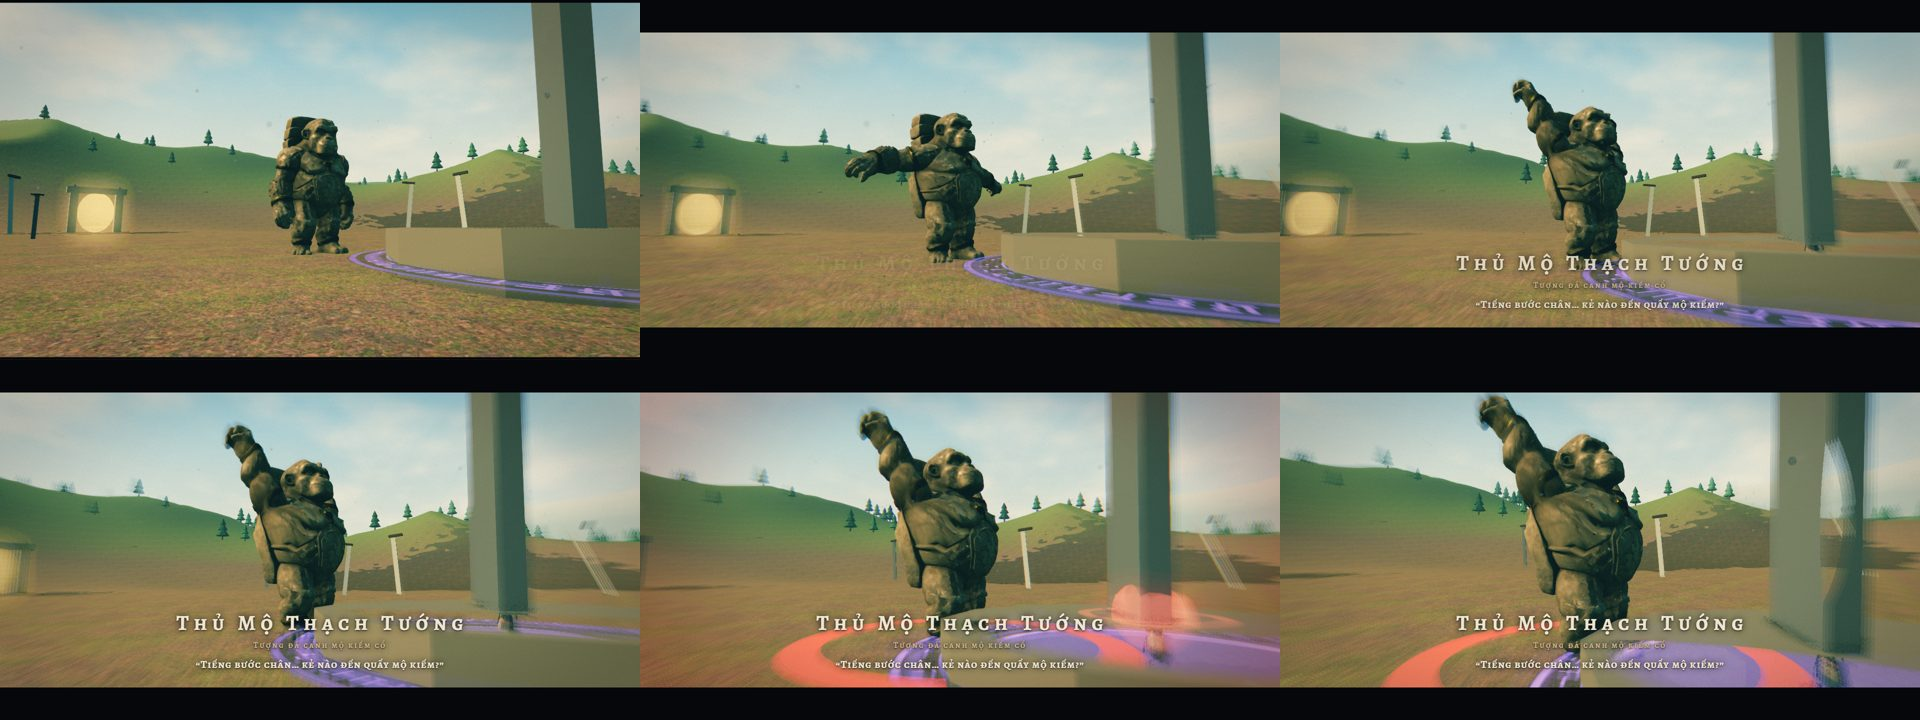
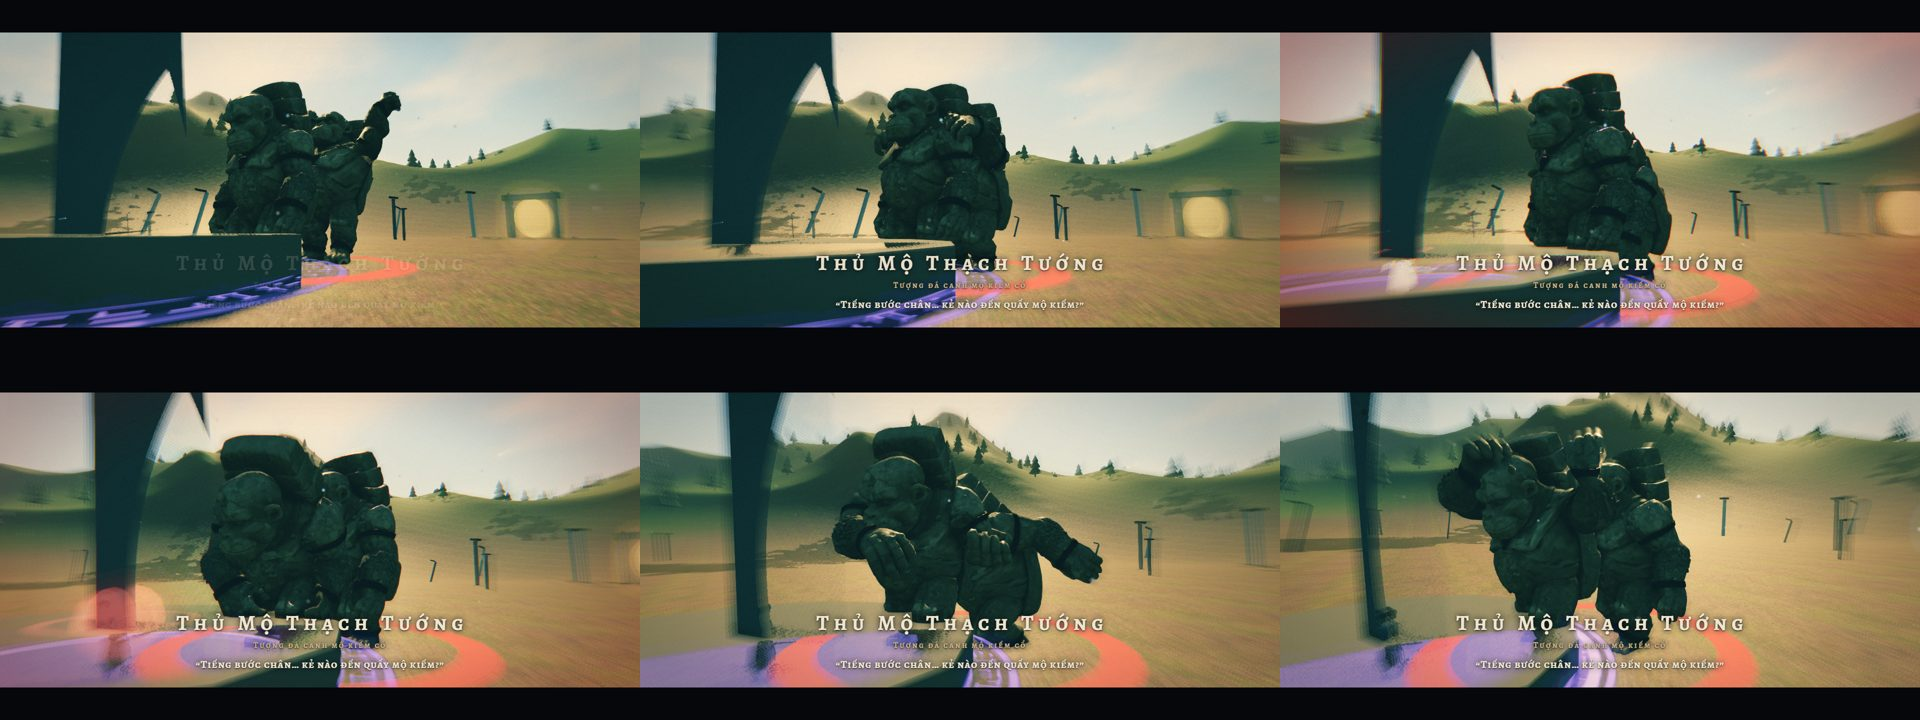
fix(client): camera cảnh boss tránh cự kiếm che tầm nhìn và giữ khoảng cách tối thiểu tới boss

diff --git a/apps/client/src/game/cutscene.ts b/apps/client/src/game/cutscene.ts
@@ -7,6 +7,8 @@
  * chính là camera thường của người chơi (truyền vào mỗi khung) nên bàn giao không có mối nối.
  */
 
+import { OCCLUDERS, type CircleCollider } from '@dtl/shared';
+
 export interface Vec3 {
   x: number;
   y: number;
@@ -177,32 +179,75 @@ export const PHASE_CUTSCENE = { dur: 1.9, out: 0.3 };
 /** Ngoài khoảng này người chơi không tham chiến nên không bị kéo camera. */
 export const BOSS_CUTSCENE_RANGE = 42;
 
+/** Lề thêm quanh hình tròn vật cản khi kiểm tầm nhìn camera→boss. */
+const OCC_PAD = 0.9;
+/** Thử lần lượt các độ lệch góc này (rad) quanh góc mặc định cho tới khi tầm nhìn thông. */
+const TURN_TRIES = [0, 0.35, -0.35, 0.7, -0.7, 1.05, -1.05];
+
+/** Đoạn (ax,az)→(bx,bz) có xuyên hình tròn vật cản nào không. Vật cản mà đích đã nằm trong thân (không xảy ra với va chạm thật) thì bỏ qua. */
+export function sightBlocked(ax: number, az: number, bx: number, bz: number, occ: readonly CircleCollider[]): boolean {
+  const dx = bx - ax;
+  const dz = bz - az;
+  const len2 = dx * dx + dz * dz || 1;
+  for (const o of occ) {
+    const r = o.r + OCC_PAD;
+    if (Math.hypot(o.x - bx, o.z - bz) < o.r + 0.2) continue;
+    const t = Math.max(0, Math.min(1, ((o.x - ax) * dx + (o.z - az) * dz) / len2));
+    if (Math.hypot(ax + dx * t - o.x, az + dz * t - o.z) < r) return true;
+  }
+  return false;
+}
+
 /**
  * Đường camera đóng khung boss, đặt ở phía MẶT boss (hướng `yaw` boss đang nhìn, lệch ~40° về phía người chơi để có
  * khối). Boss đang lao tới theo hướng nhìn nên camera lệch hẳn khỏi trục đó (không bị boss chạy xuyên qua): đầu cảnh
- * thấp và rộng, nhìn lên thân boss; rồi áp sát nhẹ và hòa vào camera thường. `scale` là cỡ boss (monsters.json),
- * `groundAt` để không chui xuống đất.
+ * thấp và rộng, nhìn lên thân boss; rồi áp sát nhẹ và hòa vào camera thường. Nếu cự kiếm/cột chắn tầm nhìn thì thử
+ * góc khác (`occ`). `scale` là cỡ boss (monsters.json), `groundAt` để không chui xuống đất.
  */
-export function bossIntroPath(boss: Vec3, yaw: number, scale: number, player: Vec3, groundAt: (x: number, z: number) => number): Waypoint[] {
+export function bossIntroPath(
+  boss: Vec3,
+  yaw: number,
+  scale: number,
+  player: Vec3,
+  groundAt: (x: number, z: number) => number,
+  occ: readonly CircleCollider[] = OCCLUDERS,
+): Waypoint[] {
   // Người chơi nằm bên nào của trục nhìn (dấu của tích có hướng) thì camera đứng bên đó.
   const fx = Math.sin(yaw);
   const fz = Math.cos(yaw);
   const side = fz * (player.x - boss.x) - fx * (player.z - boss.z) >= 0 ? 1 : -1;
-  const at = (turn: number, r: number, rise: number, look: number): Waypoint => {
-    const a = yaw + side * turn;
-    const x = boss.x + Math.sin(a) * r;
-    const z = boss.z + Math.cos(a) * r;
-    return { p: v(x, Math.max(groundAt(x, z) + 0.9, boss.y + rise), z), look: v(boss.x, boss.y + look, boss.z) };
+  const build = (d: number): Waypoint[] => {
+    const at = (turn: number, r: number, rise: number, look: number): Waypoint => {
+      const a = yaw + side * turn + d;
+      const x = boss.x + Math.sin(a) * r;
+      const z = boss.z + Math.cos(a) * r;
+      return { p: v(x, Math.max(groundAt(x, z) + 0.9, boss.y + rise), z), look: v(boss.x, boss.y + look, boss.z) };
+    };
+    return [at(0.7, 6 + 3.4 * scale, 0.35 * scale, 1.0 * scale), at(0.65, 5 + 2.6 * scale, 0.9 * scale + 0.4, 1.3 * scale)];
   };
-  return [at(0.7, 6 + 3.4 * scale, 0.35 * scale, 1.0 * scale), at(0.65, 5 + 2.6 * scale, 0.9 * scale + 0.4, 1.3 * scale)];
+  let first: Waypoint[] | null = null;
+  for (const d of TURN_TRIES) {
+    const path = build(d);
+    first ??= path;
+    if (!path.some((w) => sightBlocked(w.p.x, w.p.z, boss.x, boss.z, occ))) return path;
+  }
+  return first!;
 }
 
 /**
  * Chuyển pha: từ camera hiện tại vòng quanh boss sang phía MẶT boss (hướng `yaw` boss đang nhìn, lệch ~25° về phía
  * camera cho có khối), nâng nhẹ, mắt dõi ngực boss, rồi trả về camera thường. Điểm giữa nằm trên cung ngắn nhất
- * quanh boss nên camera không xuyên qua thân khi đang ở sau lưng.
+ * quanh boss nên camera không xuyên qua thân khi đang ở sau lưng. Vật cản chắn tầm nhìn thì thử góc khác.
  */
-export function phaseShiftPath(cam: Vec3, camLook: Vec3, boss: Vec3, yaw: number, scale: number, groundAt: (x: number, z: number) => number): Waypoint[] {
+export function phaseShiftPath(
+  cam: Vec3,
+  camLook: Vec3,
+  boss: Vec3,
+  yaw: number,
+  scale: number,
+  groundAt: (x: number, z: number) => number,
+  occ: readonly CircleCollider[] = OCCLUDERS,
+): Waypoint[] {
   const TAU = Math.PI * 2;
   const wrap = (a: number): number => ((((a + Math.PI) % TAU) + TAU) % TAU) - Math.PI;
   const dx = cam.x - boss.x;
@@ -210,16 +255,30 @@ export function phaseShiftPath(cam: Vec3, camLook: Vec3, boss: Vec3, yaw: number
   const camAng = Math.atan2(dx, dz);
   const camR = Math.hypot(dx, dz) || 1;
   const side = wrap(camAng - yaw) >= 0 ? 1 : -1;
-  const frontAng = yaw + side * 0.44;
   const frontR = 6 + 3 * scale;
-  const midAng = frontAng + wrap(camAng - frontAng) * 0.5;
-  const midR = Math.max(5 + 2 * scale, (camR + frontR) * 0.5);
   const look = v(boss.x, boss.y + 1.2 * scale, boss.z);
   const at = (ang: number, r: number, rise: number): Waypoint => {
     const x = boss.x + Math.sin(ang) * r;
     const z = boss.z + Math.cos(ang) * r;
     return { p: v(x, Math.max(groundAt(x, z) + 1.2, boss.y + rise), z), look };
   };
-  // Điểm đầu đúng camera hiện tại: không có mối nối.
-  return [{ p: v(cam.x, cam.y, cam.z), look: camLook }, at(midAng, midR, 1.1 * scale + 0.8), at(frontAng, frontR, 1.0 * scale + 1.2)];
+  const build = (d: number): Waypoint[] => {
+    const frontAng = yaw + side * 0.44 + d;
+    const midAng = frontAng + wrap(camAng - frontAng) * 0.5;
+    const midR = Math.max(5 + 2 * scale, (camR + frontR) * 0.5);
+    // Điểm đầu đúng camera hiện tại: không có mối nối.
+    return [{ p: v(cam.x, cam.y, cam.z), look: camLook }, at(midAng, midR, 1.1 * scale + 0.8), at(frontAng, frontR, 1.0 * scale + 1.2)];
+  };
+  let first: Waypoint[] | null = null;
+  for (const d of TURN_TRIES) {
+    const path = build(d);
+    first ??= path;
+    if (!path.slice(1).some((w) => sightBlocked(w.p.x, w.p.z, boss.x, boss.z, occ))) return path;
+  }
+  return first!;
+}
+
+/** Khoảng cách ngang tối thiểu camera cảnh giữ với boss để thấy trọn thân trên. */
+export function minBossDist(scale: number): number {
+  return 4.5 + 2.2 * scale;
 }

diff --git a/apps/client/src/game/engine.ts b/apps/client/src/game/engine.ts
@@ -54,7 +54,7 @@ import { hasString, ITEM, itemName, LEVELS, MONSTER, monsterName, NPCS, QUEST, r
 import { type BossInfo, type DebugInfo, get, pushLog, pushToast, set, type TargetCast, type TargetInfo, togglePanel, useUI } from '../ui/store';
 import { chapterSting, lootChime, playSting, type Sfx, setListener, sfx, unlockAudio } from './audio';
 import { CamFrame, CHAPTER, type ChapterKind, firstTime } from './chapter';
-import { BOSS_CUTSCENE, BOSS_CUTSCENE_RANGE, bossIntroPath, Cutscene, PHASE_CUTSCENE, phaseShiftPath, SECT_CUTSCENE, type Vec3, type Waypoint } from './cutscene';
+import { BOSS_CUTSCENE, BOSS_CUTSCENE_RANGE, bossIntroPath, Cutscene, minBossDist, PHASE_CUTSCENE, phaseShiftPath, SECT_CUTSCENE, type Vec3, type Waypoint } from './cutscene';
 import { LootFly } from './lootFly';
 import { LOOT_ARC, LOOT_BOUNCE, LOOT_TIERS, lootTier } from '../render/vfx/loot';
 import { BOLT_VIEW_DIST, boltAge } from '../render/vfx/projectile';
@@ -325,7 +325,7 @@ export class Game {
   private cineKind: 'sect' | 'boss' | 'phase' = 'sect';
   private cineShakeAt = 0;
   /** Boss mà cảnh xuất hiện đang nhìn theo (vị trí hiện tại, vì boss đang chạy), và độ cao ngực so với chân. */
-  private cineFocus: { id: string; rise: number } | null = null;
+  private cineFocus: { id: string; rise: number; scale: number } | null = null;
   /** Boss đã được xét cảnh xuất hiện trong lần giao chiến này (xóa khi boss hồi/gục). */
   private bossIntroSeen = new Set<string>();
   private pendingChapter: ChapterKind | null = null;
@@ -2041,7 +2041,7 @@ export class Game {
       const model = this.ents.monsters.get(id)?.model;
       const path = bossIntroPath({ x: m.x, y: m.y, z: m.z }, m.yaw, def.scale, { x: rp.x, y: rp.y, z: rp.z }, groundAt);
       this.beginBossCine('boss', path, BOSS_CUTSCENE, { name: monsterName(m.t), title: t(`mon.${m.t}.title`), text: t(key) });
-      this.cineFocus = { id, rise: 1.15 * def.scale };
+      this.cineFocus = { id, rise: 1.15 * def.scale, scale: def.scale };
       // Gầm: boss làm động tác lớn (nếu có), đất rung nhẹ, chớp mờ ở ngực.
       model?.bossMove?.('slam', 0.55);
       this.shake.kick(0.45);
@@ -2068,6 +2068,7 @@ export class Game {
     );
     postParams.pulseColor.value.set(def.accent ?? '#9fe6ff');
     this.beginBossCine('phase', path, PHASE_CUTSCENE, { name: monsterName(m.t), text: t(key) });
+    this.cineFocus = { id: src, rise: 1.2 * def.scale, scale: def.scale };
     this.shake.kick(0.9);
     return true;
   }
@@ -2096,17 +2097,35 @@ export class Game {
     if (this.cineKind === 'sect') this.chapter('sect');
   }
 
-  /** Nửa đầu cảnh xuất hiện mắt luôn dõi boss; sau đó trả dần về điểm nhìn của đường (khớp camera thường ở cuối). */
+  /**
+   * Theo boss trong cảnh: (1) cảnh xuất hiện: nửa đầu mắt luôn dõi boss đang chạy, sau đó trả dần về điểm nhìn của
+   * đường; (2) cả hai cảnh: camera không được sát boss hơn `minBossDist` (thấy trọn thân trên), nới ra dần ở 15%
+   * cuối để hòa liền vào camera thường.
+   */
   private focusCine(): void {
     const f = this.cineFocus!;
     const m = this.view.monsters.get(f.id);
     if (!m || m.st === MS_DEAD) return;
-    const x = this.cine.time / BOSS_CUTSCENE.dur;
-    const k = Math.max(0, Math.min(1, (x - 0.5) / 0.4));
-    const hold = (1 - k * k * (3 - 2 * k)) * this.cine.weight;
-    _cineL.x += (m.x - _cineL.x) * hold;
-    _cineL.y += (m.y + f.rise - _cineL.y) * hold;
-    _cineL.z += (m.z - _cineL.z) * hold;
+    const smooth = (k: number): number => {
+      const c = Math.max(0, Math.min(1, k));
+      return c * c * (3 - 2 * c);
+    };
+    const x = this.cine.time / (this.cineKind === 'boss' ? BOSS_CUTSCENE.dur : PHASE_CUTSCENE.dur);
+    if (this.cineKind === 'boss') {
+      const hold = (1 - smooth((x - 0.5) / 0.4)) * this.cine.weight;
+      _cineL.x += (m.x - _cineL.x) * hold;
+      _cineL.y += (m.y + f.rise - _cineL.y) * hold;
+      _cineL.z += (m.z - _cineL.z) * hold;
+    }
+    const min = minBossDist(f.scale) * (1 - smooth((x - 0.85) / 0.15)) * this.cine.weight;
+    const dx = _cineP.x - m.x;
+    const dz = _cineP.z - m.z;
+    const d = Math.hypot(dx, dz);
+    if (d < min) {
+      const k = d > 1e-3 ? min / d : 0;
+      _cineP.x = m.x + (d > 1e-3 ? dx * k : min);
+      _cineP.z = m.z + (d > 1e-3 ? dz * k : 0);
+    }
   }
 
   /** Hiệu ứng hậu kỳ theo nhịp cảnh boss: nhòe hướng tâm (xuất hiện) hoặc nhuộm màu (chuyển pha), kèm rung lần hai. */

diff --git a/apps/client/src/game/cutscene.test.ts b/apps/client/src/game/cutscene.test.ts
@@ -1,6 +1,6 @@
 import { groundAt } from '@dtl/shared';
 import { describe, expect, it } from 'vitest';
-import { bossIntroPath, Cutscene, pathParam, phaseShiftPath, SECT_CUTSCENE, SECT_PATH, samplePath, type Vec3 } from './cutscene';
+import { bossIntroPath, minBossDist, sightBlocked, Cutscene, pathParam, phaseShiftPath, SECT_CUTSCENE, SECT_PATH, samplePath, type Vec3 } from './cutscene';
 
 const END_P: Vec3 = { x: 2048, y: 156.4, z: 2100 };
 const END_L: Vec3 = { x: 2048, y: 151.6, z: 2088 };
@@ -109,6 +109,28 @@ describe('đường cảnh boss (P2-B2/B3)', () => {
         expect(w.look.y).toBeGreaterThan(boss.y);
       }
     }
+  });
+
+  it('cự kiếm chắn tầm nhìn thì đổi góc: không camera nào bị chắn (xuất hiện và chuyển pha)', () => {
+    const player: Vec3 = { x: 100, y: 10, z: 130 };
+    const base = bossIntroPath(boss, 0, 2.4, player, flat, []);
+    // Đặt cột chắn đúng giữa camera đầu tiên và boss.
+    const w = base[0].p;
+    const pillar = [{ x: (w.x + boss.x) / 2, z: (w.z + boss.z) / 2, r: 3.4 }];
+    expect(sightBlocked(w.x, w.z, boss.x, boss.z, pillar)).toBe(true);
+    const moved = bossIntroPath(boss, 0, 2.4, player, flat, pillar);
+    for (const m of moved) expect(sightBlocked(m.p.x, m.p.z, boss.x, boss.z, pillar)).toBe(false);
+    const cam: Vec3 = { x: 100, y: 14, z: 88 };
+    const p0 = phaseShiftPath(cam, boss, boss, 0, 2, flat, []);
+    const q = p0[2].p;
+    const pillar2 = [{ x: (q.x + boss.x) / 2, z: (q.z + boss.z) / 2, r: 3.4 }];
+    const p1 = phaseShiftPath(cam, boss, boss, 0, 2, flat, pillar2);
+    for (const m of p1.slice(1)) expect(sightBlocked(m.p.x, m.p.z, boss.x, boss.z, pillar2)).toBe(false);
+  });
+
+  it('vật cản sát boss (boss đứng cạnh cột) không làm kẹt việc chọn góc', () => {
+    expect(sightBlocked(0, 0, 10, 0, [{ x: 10.5, z: 0, r: 3 }])).toBe(false);
+    expect(minBossDist(2.8)).toBeGreaterThan(minBossDist(1));
   });
 
   it('chuyển pha: điểm đầu đúng camera hiện tại, điểm sau lùi xa boss và cao hơn', () => {
